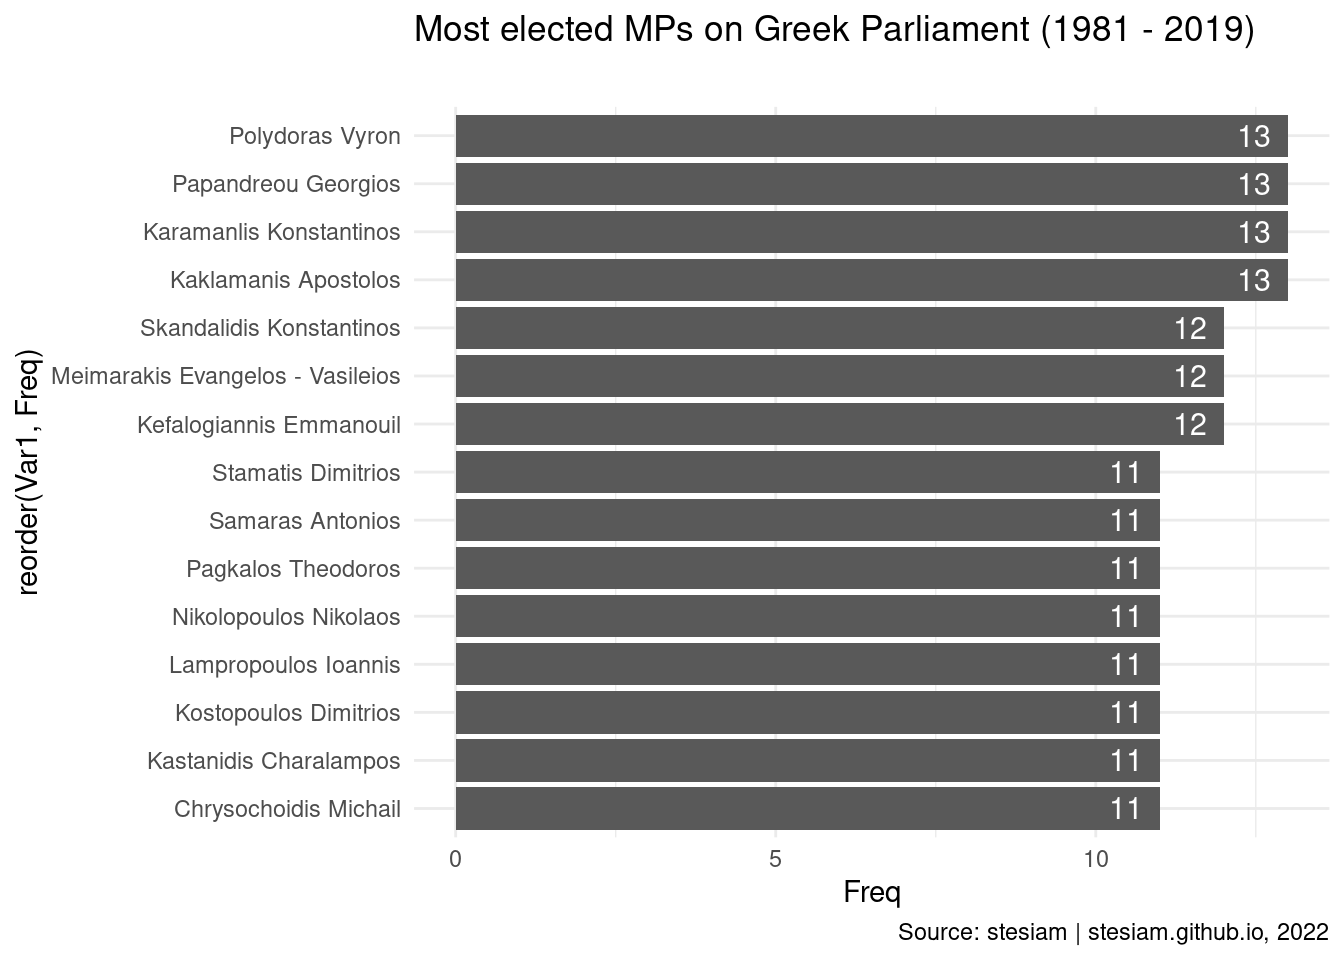
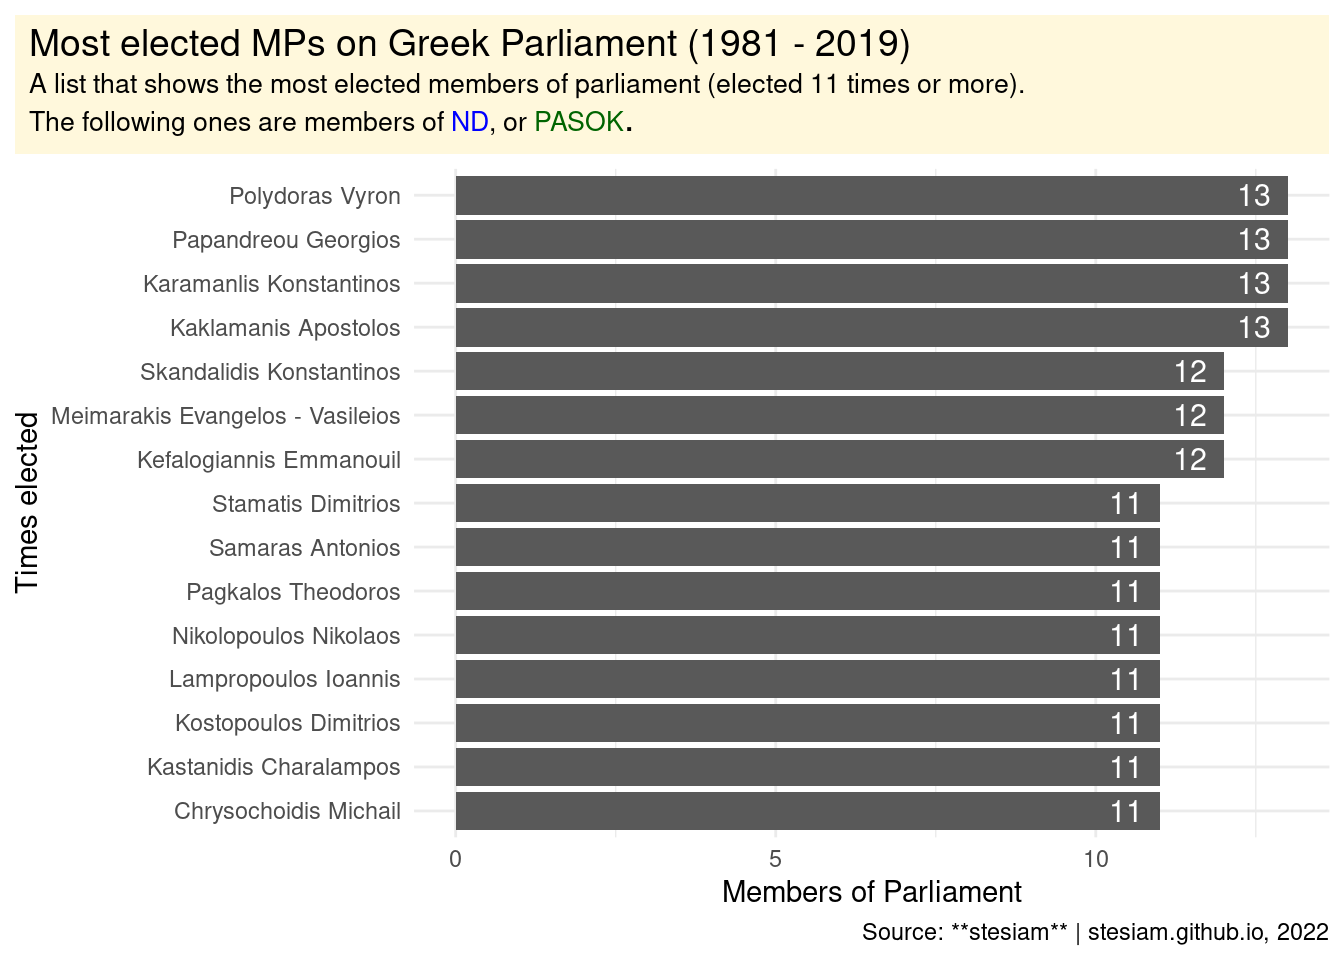
Edit article - EDA Greek Parliament

Changed region(s): [[0.0, 0.0, 1.0, 0.875], [0.3438, 0.8125, 0.875, 0.8438], [0.5312, 0.9062, 0.7812, 1.0]]

diff --git a/docs/notebooks/2022-10-10-Surnames-Greek-Parliament/2022-10-10-Surnames-Greek-Parliament.html b/docs/notebooks/2022-10-10-Surnames-Greek-Parliament/2022-10-10-Surnames-Greek-Parliament.html
@@ -297,6 +297,7 @@ div.csl-indent {
 <span><span class="co"># Graphs</span></span>
 <span><span class="kw"><a href="https://rdrr.io/r/base/library.html">library</a></span><span class="op">(</span><span class="va"><a href="https://ggplot2.tidyverse.org">ggplot2</a></span><span class="op">)</span></span>
 <span><span class="kw"><a href="https://rdrr.io/r/base/library.html">library</a></span><span class="op">(</span><span class="va"><a href="https://github.com/erocoar/ggpol">ggpol</a></span><span class="op">)</span> </span>
+<span><span class="kw"><a href="https://rdrr.io/r/base/library.html">library</a></span><span class="op">(</span><span class="va"><a href="https://wilkelab.org/ggtext/">ggtext</a></span><span class="op">)</span></span>
 <span></span>
 <span><span class="co"># Other settings</span></span>
 <span><span class="fu"><a href="https://rdrr.io/r/base/options.html">options</a></span><span class="op">(</span>digits<span class="op">=</span><span class="fl">2</span><span class="op">)</span> <span class="co"># print only 2 decimals</span></span></code><button title="Copy to Clipboard" class="code-copy-button"><i class="bi"></i></button></pre></div>
@@ -467,6 +468,8 @@ div.csl-indent {
 </div>
 </section></section><section id="parliament-over-the-years" class="level1"><h1>Parliament over the years</h1>
 <p>Now, I will make a short sum-up of the electoral resuts over the years. It is important to share that I made it thanks to <a href="https://datavizstory.com/a-parliament-diagram-in-r/">this post</a> and <code>ggpol</code> package. As I am planning to do this procedure for many electoral terms I will convert the as a function.</p>
+<p>Arguments like <code>term</code> and <code>custom_title</code> are vital to create reproducible plots for all the terms. Although a main problem is the colors. On the aforementioned post it was about only one term. We knew how many parties we had, so we knew what colors to set and how many. If we try that on many terms (on which the number of parties can vary from 3 to 8) an error will come up which will say “Hey, you have set 3 colors but I see that you have 8 values (parties)”. This was a real obstacle for me.</p>
+<p>After some tries and misses I came up with the concept of <strong>dynamic arguments</strong>. …</p>
 <div class="cell">
 <details><summary>Show the code</summary><div class="sourceCode" id="cb6"><pre class="downlit sourceCode r code-with-copy"><code class="sourceCode R"><span><span class="va">make_parliament_plot</span> <span class="op">&lt;-</span> <span class="kw">function</span><span class="op">(</span><span class="va">term</span>, <span class="va">custom_title</span><span class="op">)</span><span class="op">{</span></span>
 <span></span>
@@ -502,7 +505,23 @@ div.csl-indent {
 </details>
 </div>
 <div class="panel-tabset">
-<ul class="nav nav-tabs" role="tablist"><li class="nav-item" role="presentation"><a class="nav-link active" id="tabset-1-1-tab" data-bs-toggle="tab" data-bs-target="#tabset-1-1" role="tab" aria-controls="tabset-1-1" aria-selected="true">3rd Term</a></li></ul>
+<ul class="nav nav-tabs" role="tablist">
+<li class="nav-item" role="presentation"><a class="nav-link active" id="tabset-1-1-tab" data-bs-toggle="tab" data-bs-target="#tabset-1-1" role="tab" aria-controls="tabset-1-1" aria-selected="true">3rd Term</a></li>
+<li class="nav-item" role="presentation"><a class="nav-link" id="tabset-1-2-tab" data-bs-toggle="tab" data-bs-target="#tabset-1-2" role="tab" aria-controls="tabset-1-2" aria-selected="false">4th Term</a></li>
+<li class="nav-item" role="presentation"><a class="nav-link" id="tabset-1-3-tab" data-bs-toggle="tab" data-bs-target="#tabset-1-3" role="tab" aria-controls="tabset-1-3" aria-selected="false">5th Term</a></li>
+<li class="nav-item" role="presentation"><a class="nav-link" id="tabset-1-4-tab" data-bs-toggle="tab" data-bs-target="#tabset-1-4" role="tab" aria-controls="tabset-1-4" aria-selected="false">6th Term</a></li>
+<li class="nav-item" role="presentation"><a class="nav-link" id="tabset-1-5-tab" data-bs-toggle="tab" data-bs-target="#tabset-1-5" role="tab" aria-controls="tabset-1-5" aria-selected="false">7th Term</a></li>
+<li class="nav-item" role="presentation"><a class="nav-link" id="tabset-1-6-tab" data-bs-toggle="tab" data-bs-target="#tabset-1-6" role="tab" aria-controls="tabset-1-6" aria-selected="false">8th Term</a></li>
+<li class="nav-item" role="presentation"><a class="nav-link" id="tabset-1-7-tab" data-bs-toggle="tab" data-bs-target="#tabset-1-7" role="tab" aria-controls="tabset-1-7" aria-selected="false">9th Term</a></li>
+<li class="nav-item" role="presentation"><a class="nav-link" id="tabset-1-8-tab" data-bs-toggle="tab" data-bs-target="#tabset-1-8" role="tab" aria-controls="tabset-1-8" aria-selected="false">10th Term</a></li>
+<li class="nav-item" role="presentation"><a class="nav-link" id="tabset-1-9-tab" data-bs-toggle="tab" data-bs-target="#tabset-1-9" role="tab" aria-controls="tabset-1-9" aria-selected="false">11th Term</a></li>
+<li class="nav-item" role="presentation"><a class="nav-link" id="tabset-1-10-tab" data-bs-toggle="tab" data-bs-target="#tabset-1-10" role="tab" aria-controls="tabset-1-10" aria-selected="false">12th Term</a></li>
+<li class="nav-item" role="presentation"><a class="nav-link" id="tabset-1-11-tab" data-bs-toggle="tab" data-bs-target="#tabset-1-11" role="tab" aria-controls="tabset-1-11" aria-selected="false">13th Term</a></li>
+<li class="nav-item" role="presentation"><a class="nav-link" id="tabset-1-12-tab" data-bs-toggle="tab" data-bs-target="#tabset-1-12" role="tab" aria-controls="tabset-1-12" aria-selected="false">14th Term</a></li>
+<li class="nav-item" role="presentation"><a class="nav-link" id="tabset-1-13-tab" data-bs-toggle="tab" data-bs-target="#tabset-1-13" role="tab" aria-controls="tabset-1-13" aria-selected="false">15th Term</a></li>
+<li class="nav-item" role="presentation"><a class="nav-link" id="tabset-1-14-tab" data-bs-toggle="tab" data-bs-target="#tabset-1-14" role="tab" aria-controls="tabset-1-14" aria-selected="false">16th Term</a></li>
+<li class="nav-item" role="presentation"><a class="nav-link" id="tabset-1-15-tab" data-bs-toggle="tab" data-bs-target="#tabset-1-15" role="tab" aria-controls="tabset-1-15" aria-selected="false">17th Term</a></li>
+</ul>
 <div class="tab-content">
 <div id="tabset-1-1" class="tab-pane active" role="tabpanel" aria-labelledby="tabset-1-1-tab">
 <div class="cell">
@@ -511,6 +530,48 @@ div.csl-indent {
 <p><img src="2022-10-10-Surnames-Greek-Parliament_files/figure-html/unnamed-chunk-5-1.png" class="img-fluid" width="672"></p>
 </div>
 </div>
+</div>
+<div id="tabset-1-2" class="tab-pane" role="tabpanel" aria-labelledby="tabset-1-2-tab">
+
+</div>
+<div id="tabset-1-3" class="tab-pane" role="tabpanel" aria-labelledby="tabset-1-3-tab">
+
+</div>
+<div id="tabset-1-4" class="tab-pane" role="tabpanel" aria-labelledby="tabset-1-4-tab">
+
+</div>
+<div id="tabset-1-5" class="tab-pane" role="tabpanel" aria-labelledby="tabset-1-5-tab">
+
+</div>
+<div id="tabset-1-6" class="tab-pane" role="tabpanel" aria-labelledby="tabset-1-6-tab">
+
+</div>
+<div id="tabset-1-7" class="tab-pane" role="tabpanel" aria-labelledby="tabset-1-7-tab">
+
+</div>
+<div id="tabset-1-8" class="tab-pane" role="tabpanel" aria-labelledby="tabset-1-8-tab">
+
+</div>
+<div id="tabset-1-9" class="tab-pane" role="tabpanel" aria-labelledby="tabset-1-9-tab">
+
+</div>
+<div id="tabset-1-10" class="tab-pane" role="tabpanel" aria-labelledby="tabset-1-10-tab">
+
+</div>
+<div id="tabset-1-11" class="tab-pane" role="tabpanel" aria-labelledby="tabset-1-11-tab">
+
+</div>
+<div id="tabset-1-12" class="tab-pane" role="tabpanel" aria-labelledby="tabset-1-12-tab">
+
+</div>
+<div id="tabset-1-13" class="tab-pane" role="tabpanel" aria-labelledby="tabset-1-13-tab">
+
+</div>
+<div id="tabset-1-14" class="tab-pane" role="tabpanel" aria-labelledby="tabset-1-14-tab">
+
+</div>
+<div id="tabset-1-15" class="tab-pane" role="tabpanel" aria-labelledby="tabset-1-15-tab">
+
 </div>
 </div>
 </div>
@@ -523,9 +584,20 @@ div.csl-indent {
 <span>  <span class="fu"><a href="https://ggplot2.tidyverse.org/reference/geom_text.html">geom_text</a></span><span class="op">(</span><span class="fu"><a href="https://ggplot2.tidyverse.org/reference/aes.html">aes</a></span><span class="op">(</span>label<span class="op">=</span><span class="va">Freq</span><span class="op">)</span>, hjust <span class="op">=</span> <span class="fl">1.5</span>, vjust<span class="op">=</span><span class="fl">0.5</span>, color<span class="op">=</span><span class="st">"white"</span>, size<span class="op">=</span><span class="fl">4</span><span class="op">)</span><span class="op">+</span></span>
 <span>  <span class="fu"><a href="https://ggplot2.tidyverse.org/reference/ggtheme.html">theme_minimal</a></span><span class="op">(</span><span class="op">)</span> <span class="op">+</span></span>
 <span>  <span class="fu"><a href="https://ggplot2.tidyverse.org/reference/scale_grey.html">scale_fill_grey</a></span><span class="op">(</span><span class="op">)</span> <span class="op">+</span></span>
-<span>  <span class="fu"><a href="https://ggplot2.tidyverse.org/reference/labs.html">labs</a></span><span class="op">(</span>title <span class="op">=</span> <span class="st">"Most elected MPs on Greek Parliament (1981 - 2019)"</span>,</span>
-<span>       subtitle <span class="op">=</span> <span class="st">""</span>,</span>
-<span>       caption <span class="op">=</span> <span class="st">"Source: stesiam | stesiam.github.io, 2022"</span><span class="op">)</span> <span class="op">+</span></span>
+<span>  <span class="fu"><a href="https://ggplot2.tidyverse.org/reference/labs.html">labs</a></span><span class="op">(</span>title <span class="op">=</span> <span class="st">"Most elected MPs on Greek Parliament (1981 - 2019) &lt;br&gt;</span></span>
+<span><span class="st">       &lt;span style = 'font-size:10pt'&gt; A list that shows the most elected members of parliament (elected 11 times or more). &lt;br&gt; The following ones are members of &lt;span style = 'color:blue;'&gt;ND&lt;/span&gt;,  or &lt;span style = 'color:darkgreen;'&gt;PASOK&lt;/span&gt;&lt;/span&gt;."</span>,</span>
+<span>       caption <span class="op">=</span> <span class="st">"Source: **stesiam** | stesiam.github.io, 2022"</span>,</span>
+<span>       x <span class="op">=</span> <span class="st">"Times elected"</span>,</span>
+<span>       y <span class="op">=</span> <span class="st">"Members of Parliament"</span><span class="op">)</span> <span class="op">+</span></span>
+<span>    <span class="fu"><a href="https://ggplot2.tidyverse.org/reference/theme.html">theme</a></span><span class="op">(</span></span>
+<span>    plot.title.position <span class="op">=</span> <span class="st">"plot"</span>,</span>
+<span>    plot.title <span class="op">=</span> <span class="fu"><a href="https://wilkelab.org/ggtext/reference/element_textbox.html">element_textbox_simple</a></span><span class="op">(</span></span>
+<span>      size <span class="op">=</span> <span class="fl">14</span>,</span>
+<span>      lineheight <span class="op">=</span> <span class="fl">1</span>,</span>
+<span>      padding <span class="op">=</span> <span class="fu"><a href="https://ggplot2.tidyverse.org/reference/element.html">margin</a></span><span class="op">(</span><span class="fl">5.5</span>, <span class="fl">5.5</span>, <span class="fl">5.5</span>, <span class="fl">5.5</span><span class="op">)</span>,</span>
+<span>      margin <span class="op">=</span> <span class="fu"><a href="https://ggplot2.tidyverse.org/reference/element.html">margin</a></span><span class="op">(</span><span class="fl">0</span>, <span class="fl">0</span>, <span class="fl">5.5</span>, <span class="fl">0</span><span class="op">)</span>,</span>
+<span>      fill <span class="op">=</span> <span class="st">"cornsilk"</span></span>
+<span>    <span class="op">)</span><span class="op">)</span><span class="op">+</span></span>
 <span>  <span class="fu"><a href="https://ggplot2.tidyverse.org/reference/coord_flip.html">coord_flip</a></span><span class="op">(</span><span class="op">)</span></span></code><button title="Copy to Clipboard" class="code-copy-button"><i class="bi"></i></button></pre></div>
 </details><div class="cell-output-display">
 <div class="quarto-figure quarto-figure-center">
@@ -537,7 +609,15 @@ div.csl-indent {
 </div>
 </section><section id="most-elected-members-by-party" class="level1"><h1>Most elected members by party</h1>
 <p>So far we have seen the most elected members of Greek parliament for the period 1981-2019. Ιt would be particularly interesting to study the same feature by party. However, finding the most elected member per party can be challenging on parties with relatively low representation on Greek parliament. That is the reason for choosing only some of those.</p>
-<p>Concerning the implementation part, I see that I will make some visualizations with minimum changes (e.g., filter dataset based on party, change color, etc.) so, the creation of a function is justified. That way, I will not repeat same code, following one of the principles of programming (DRY - Don’t Repeat Yourself).</p>
+<p>Concerning the implementation part, I see that I will make some visualizations with minimum changes (e.g., filter dataset based on party, change color, etc.) so, the creation of a function is justified. That way, I will not repeat same code, following one of the principles of programming (DRY - Don’t Repeat Yourself). On the following function we can see that I set 3 variables :</p>
+<ul>
+<li>
+<code>Party</code> : I have to specify which data to filter</li>
+<li>
+<code>color</code> : In order to customize color of my barplots to be similar to each party’s color</li>
+<li>
+<code>times_elected_min</code> : A argument that I added up later. The problem with its absence is that I have to deal with parties that elect for example 150 MPs and some others just 10. If I set a universal number of elections to visualize I will have diagrams with many problems. Let’s suppose that I set a big value (e.g., 10). Then I would visualize my data for <em>ND</em> and <em>PASOK</em>, although parties with relatively low number of MPs would have only one or noone to show (<em>KKE</em> &amp; <em>SYRIZA</em>, respectively). On the other hand if I set a low value I create a new problem as there will be many MPs of and it creates the need to edit many more things (like width of bars). An argument like <code>times_elected_min</code> can adapt the specific characteristics of each party.</li>
+</ul>
 <div class="cell">
 <details><summary>Show the code</summary><div class="sourceCode" id="cb9"><pre class="downlit sourceCode r code-with-copy"><code class="sourceCode R"><span><span class="va">party_plot</span> <span class="op">&lt;-</span> <span class="kw">function</span><span class="op">(</span><span class="va">party</span>, <span class="va">party_color</span>, <span class="va">times_elected_min</span><span class="op">)</span><span class="op">{</span></span>
 <span>  <span class="va">party_df</span> <span class="op">=</span> <span class="va">parliament</span> <span class="op"><a href="https://magrittr.tidyverse.org/reference/pipe.html">%&gt;%</a></span> <span class="fu"><a href="https://dplyr.tidyverse.org/reference/filter.html">filter</a></span><span class="op">(</span><span class="va">Party</span> <span class="op">==</span> <span class="va">party</span><span class="op">)</span> <span class="op"><a href="https://magrittr.tidyverse.org/reference/pipe.html">%&gt;%</a></span></span>
@@ -2729,6 +2809,9 @@ Wickham, H., &amp; Girlich, M. (2022). <em>Tidyr: Tidy messy data</em>. Retrieve
 </div>
 <div id="ref-R-readr" class="csl-entry" role="doc-biblioentry">
 Wickham, H., Hester, J., &amp; Bryan, J. (2022). <em>Readr: Read rectangular text data</em>. Retrieved from <a href="https://CRAN.R-project.org/package=readr">https://CRAN.R-project.org/package=readr</a>
+</div>
+<div id="ref-R-ggtext" class="csl-entry" role="doc-biblioentry">
+Wilke, C. O., &amp; Wiernik, B. M. (2022). <em>Ggtext: Improved text rendering support for ggplot2</em>. Retrieved from <a href="https://wilkelab.org/ggtext/">https://wilkelab.org/ggtext/</a>
 </div>
 <div id="ref-R-kableExtra" class="csl-entry" role="doc-biblioentry">
 Zhu, H. (2021). <em>kableExtra: Construct complex table with kable and pipe syntax</em>. Retrieved from <a href="https://CRAN.R-project.org/package=kableExtra">https://CRAN.R-project.org/package=kableExtra</a>

diff --git a/docs/notebooks.html b/docs/notebooks.html
@@ -218,7 +218,7 @@ ul.task-list{list-style: none;}
     </div>
 </div>
 <div class="list quarto-listing-default">
-<div class="quarto-post image-right" data-index="0" data-categories="R,EDA,Greek Parliament" data-listing-date-sort="1665349200000" data-listing-file-modified-sort="1665583301012" data-listing-reading-time-sort="7.88">
+<div class="quarto-post image-right" data-index="0" data-categories="R,EDA,Greek Parliament" data-listing-date-sort="1665349200000" data-listing-file-modified-sort="1665588966511" data-listing-reading-time-sort="10.07">
 <div class="thumbnail">
 <p><a href="./notebooks/2022-10-10-Surnames-Greek-Parliament/2022-10-10-Surnames-Greek-Parliament.html"> <img src="./notebooks/2022-10-10-Surnames-Greek-Parliament/images/houses-of-parliament.jpg" class="thumnail-image"> </a></p>
 </div>

diff --git a/docs/posts.html b/docs/posts.html
@@ -218,7 +218,7 @@ ul.task-list{list-style: none;}
     </div>
 </div>
 <div class="list quarto-listing-default">
-<div class="quarto-post image-right" data-index="0" data-categories="R,EDA,Greek Parliament" data-listing-date-sort="1665349200000" data-listing-file-modified-sort="1665583301012" data-listing-reading-time-sort="7.88">
+<div class="quarto-post image-right" data-index="0" data-categories="R,EDA,Greek Parliament" data-listing-date-sort="1665349200000" data-listing-file-modified-sort="1665588966511" data-listing-reading-time-sort="10.07">
 <div class="thumbnail">
 <p><a href="./notebooks/2022-10-10-Surnames-Greek-Parliament/2022-10-10-Surnames-Greek-Parliament.html"> <img src="./notebooks/2022-10-10-Surnames-Greek-Parliament/images/houses-of-parliament.jpg" class="thumnail-image"> </a></p>
 </div>
